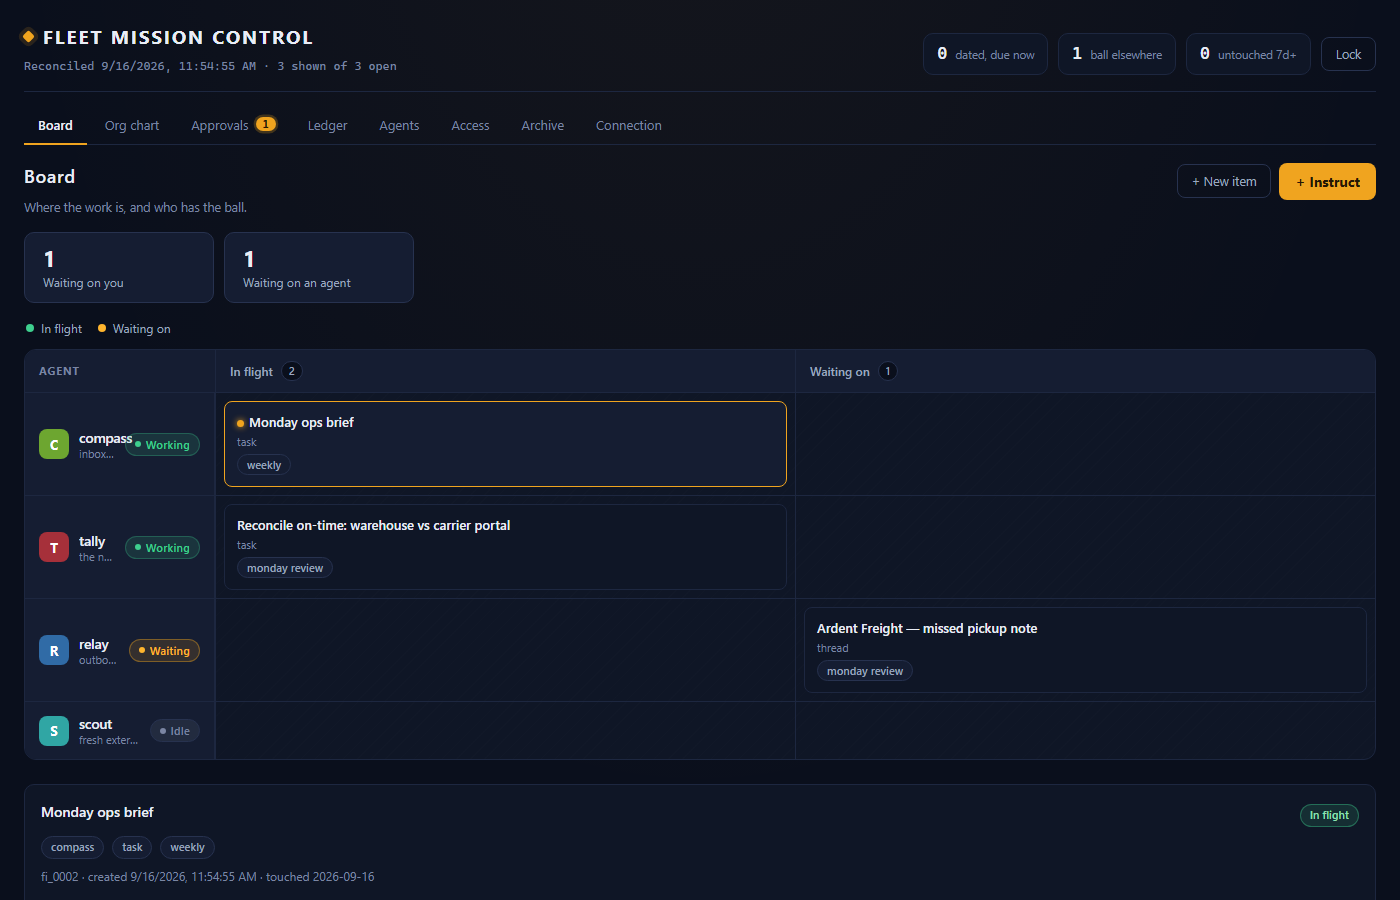
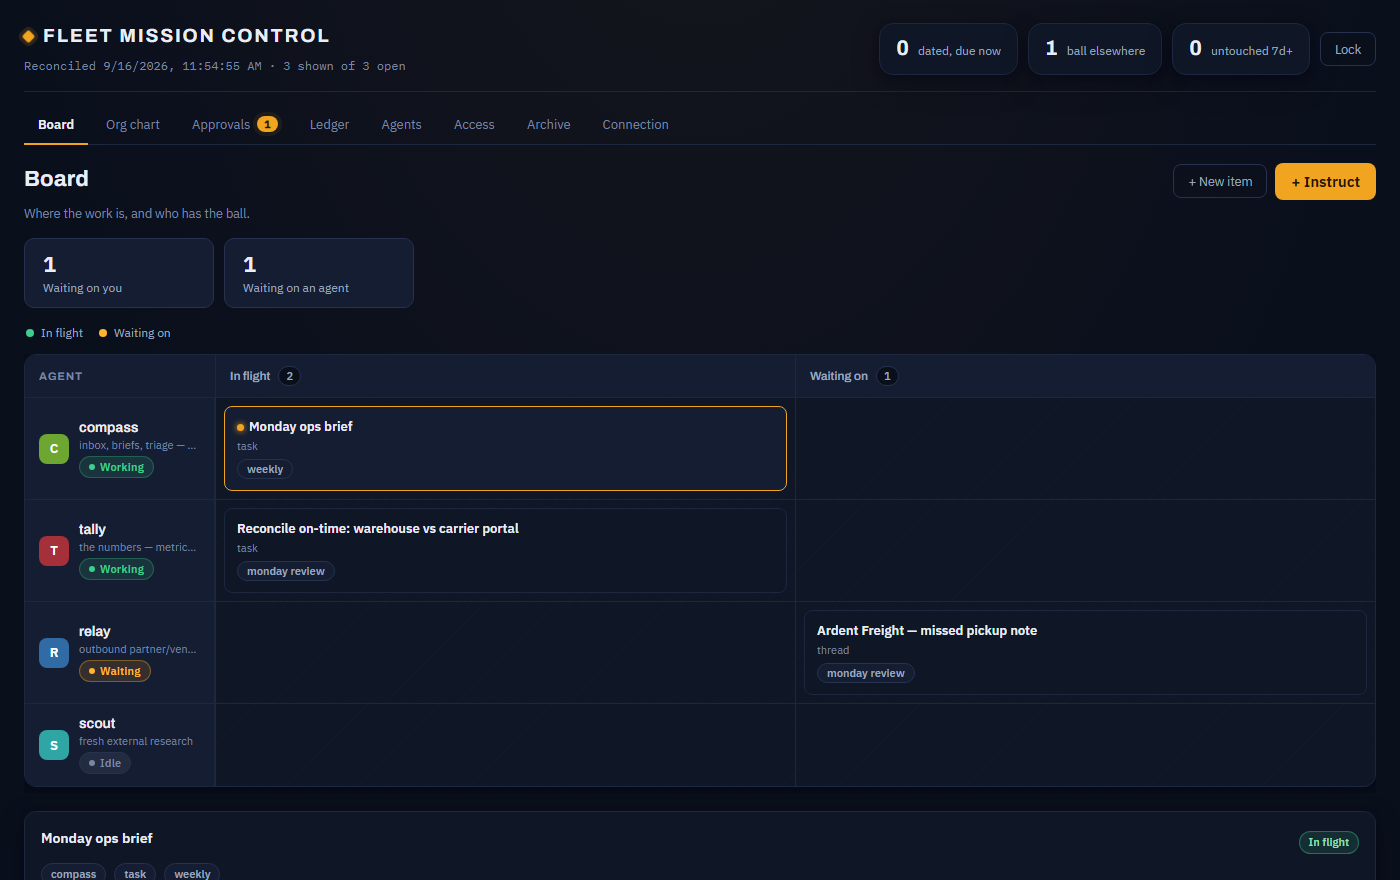
Match the Mission Control house style: Archivo + IBM Plex, raised panels
The board was structurally right but visually off from the real Tenarai Mission
Control. Pulled that site's design system in so the reference implementation
looks like the product it models.

- Typography is the signature: load Archivo (display) + IBM Plex Sans (body) +
  IBM Plex Mono (timestamps/ids) and point --display/--font/--mono at them. The
  colour tokens already matched; the system fallback fonts were the tell.
- Adopt the reference's --shadow-raise and 12px radius; raise the stat pills
  (big Archivo numbers), the swimboard, the cards and the org nodes.
- Base size 15px, antialiased; headings and lane/org/section titles in Archivo.
- Swimlane header cleaned up: agent name, role, then the state pill stacked, so
  the pill no longer collides with the name in a narrow column.
- Owner node's name picks up the accent.

Board, org chart and the agent pop-up all read as one polished surface now.
Screenshots refreshed. No behavioural change; acceptance unaffected.

diff --git a/platform/ui/fleet.html b/platform/ui/fleet.html
@@ -4,6 +4,9 @@
 <meta charset="utf-8" />
 <meta name="viewport" content="width=device-width, initial-scale=1" />
 <title>Fleet Mission Control</title>
+<link rel="preconnect" href="https://fonts.googleapis.com" />
+<link rel="preconnect" href="https://fonts.gstatic.com" crossorigin />
+<link href="https://fonts.googleapis.com/css2?family=Archivo:wght@600;700;800&family=IBM+Plex+Mono:wght@400;500&family=IBM+Plex+Sans:wght@400;500;600&display=swap" rel="stylesheet" />
 <style>
   /*
    * A deep blue-black ground, signal amber for anything that needs the owner's
@@ -33,10 +36,13 @@
     --hot-soft: rgba(255, 109, 109, 0.13);
     --warn: #e6b455;
     --warn-soft: rgba(230, 180, 85, 0.12);
-    --radius: 10px;
-    --font: -apple-system, BlinkMacSystemFont, "Segoe UI", Roboto, Helvetica, Arial, sans-serif;
-    --display: var(--font);
-    --mono: ui-monospace, "SF Mono", "Cascadia Code", Consolas, monospace;
+    --radius: 12px;
+    --shadow-raise: 0 2px 6px #02061059, 0 10px 28px #0206104d;
+    /* The Mission Control type system: Archivo for display, IBM Plex Sans for
+       body, IBM Plex Mono for timestamps and ids. Same as the reference. */
+    --font: "IBM Plex Sans", "Segoe UI", -apple-system, Roboto, Helvetica, Arial, sans-serif;
+    --display: "Archivo", var(--font);
+    --mono: "IBM Plex Mono", ui-monospace, "SF Mono", "Cascadia Code", Consolas, monospace;
   }
 
   *{ box-sizing: border-box; }
@@ -46,7 +52,8 @@
     background: var(--bg);
     color: var(--ink);
     font-family: var(--font);
-    font-size: 14px;
+    font-size: 15px;
+    -webkit-font-smoothing: antialiased;
     line-height: 1.5;
   }
   body{
@@ -168,11 +175,11 @@
   .asof{ margin: 6px 0 0; font-size: 12px; font-family: var(--mono); color: var(--ink-faint); }
   .top-stats{ display:flex; align-items:center; gap:10px; flex-wrap:wrap; }
   .stat{
-    background: var(--panel); border: 1px solid var(--line-soft); border-radius: var(--radius);
-    padding: 7px 13px; display:flex; align-items:baseline; gap:8px;
+    background: var(--panel); border: 1px solid var(--line-soft); border-radius: 14px;
+    padding: 9px 16px; display:flex; align-items:baseline; gap:9px; box-shadow: var(--shadow-raise);
   }
-  .stat b{ font-size: 17px; font-family: var(--mono); font-weight:600; font-variant-numeric: tabular-nums; }
-  .stat span{ font-size: 11.5px; color: var(--ink-faint); }
+  .stat b{ font-size: 21px; font-family: var(--display); font-weight:700; font-variant-numeric: tabular-nums; letter-spacing:.01em; }
+  .stat span{ font-size: 12px; color: var(--ink-dim); }
   .stat.hot{ border-color: rgba(255,109,109,.45); background: linear-gradient(180deg, var(--hot-soft), var(--panel)); }
   .stat.hot b{ color: var(--hot); }
   .stat.warn{ border-color: rgba(230,180,85,.4); background: linear-gradient(180deg, var(--warn-soft), var(--panel)); }
@@ -228,7 +235,7 @@
   .chip-neutral{ background: var(--panel-2); color: var(--ink-dim); border-color: var(--line); }
 
   /* ---------- cards / lists ---------- */
-  .card{ background: var(--panel); border: 1px solid var(--line-soft); border-radius: 10px; padding: 16px; margin-bottom: 14px; }
+  .card{ background: var(--panel); border: 1px solid var(--line-soft); border-radius: 12px; padding: 16px; margin-bottom: 14px; box-shadow: var(--shadow-raise); }
   .card h3{ font-size:14px; }
   .section-title{ font-size:12px; text-transform:uppercase; letter-spacing:.05em; color: var(--ink-faint); margin: 4px 0 8px; }
   .scroll-x{ overflow-x:auto; max-width:100%; }
@@ -237,7 +244,7 @@
   th{ color: var(--ink-faint); font-weight:600; font-size:11px; text-transform:uppercase; letter-spacing:.04em; }
   td.wrap{ white-space: normal; }
   .view-header{ display:flex; justify-content:space-between; align-items:flex-start; gap:12px; margin: 18px 0 16px; flex-wrap:wrap; }
-  .view-header h2{ font-size: 18px; font-family: var(--display); letter-spacing: .04em; }
+  .view-header h2{ font-size: 22px; font-family: var(--display); font-weight:700; letter-spacing: .01em; }
   .view-sub{ color: var(--ink-faint); font-size: 12.5px; margin-top:3px; }
 
   /* ---------- board ---------- */
@@ -582,7 +589,8 @@
 
   /* ---- the Jira swimlane board ---- */
   .swimboard-scroll{ overflow-x:auto; padding-bottom:6px; }
-  .swimboard{ min-width:640px; border:1px solid var(--line-soft); border-radius:12px; overflow:hidden; background:var(--panel); }
+  .swimboard{ min-width:640px; border:1px solid var(--line-soft); border-radius:12px; overflow:hidden; background:var(--panel); box-shadow:var(--shadow-raise); }
+  .swim-corner, .swim-colhead span:first-child{ font-family:var(--display); }
   .swim-row{ display:grid; align-items:stretch; border-top:1px solid var(--line-soft); }
   .swim-row:first-child{ border-top:0; }
   .swim-head{ position:sticky; top:0; background:var(--panel-2); z-index:2; }
@@ -598,9 +606,10 @@
   .swim-lane-static{ cursor:default; }
   .swim-avatar{ width:30px; height:30px; border-radius:8px; flex:none; display:flex; align-items:center;
     justify-content:center; font-weight:700; font-size:13px; color:#fff; text-transform:uppercase; }
-  .swim-lane-body{ min-width:0; flex:1; }
-  .swim-lane-name{ font-weight:600; font-size:13.5px; }
-  .swim-lane-role{ font-size:11px; color:var(--ink-faint); white-space:nowrap; overflow:hidden; text-overflow:ellipsis; }
+  .swim-lane-body{ min-width:0; flex:1; display:flex; flex-direction:column; align-items:flex-start; gap:3px; }
+  .swim-lane-name{ font-weight:600; font-size:14px; font-family:var(--display); }
+  .swim-lane-role{ font-size:11px; color:var(--ink-faint); white-space:nowrap; overflow:hidden; text-overflow:ellipsis; max-width:100%; }
+  .swim-lane .state-pill{ margin-top:1px; }
   .swim-cell{ padding:8px; border-left:1px solid var(--line-soft); display:flex; flex-direction:column; gap:8px;
     background:repeating-linear-gradient(-45deg, transparent, transparent 9px, rgba(255,255,255,.008) 9px, rgba(255,255,255,.008) 10px); }
 
@@ -616,7 +625,7 @@
   .orgc-child{ position:relative; }
   .orgc-child::before{ content:''; position:absolute; top:-26px; left:50%; width:2px; height:26px; background:var(--line); }
   .orgc-node{ display:flex; align-items:center; gap:11px; text-align:left; min-width:210px; max-width:280px;
-    padding:12px 14px; border-radius:12px; border:1px solid var(--line); background:var(--panel-2); color:var(--ink); }
+    padding:12px 14px; border-radius:12px; border:1px solid var(--line); background:var(--panel-2); color:var(--ink); box-shadow:var(--shadow-raise); }
   button.orgc-node{ cursor:pointer; transition:border-color .12s, transform .12s, background .12s; }
   button.orgc-node:hover{ border-color:var(--accent-dim); background:var(--panel-3); transform:translateY(-1px); }
   button.orgc-node:disabled{ cursor:default; }
@@ -625,8 +634,9 @@
   .orgc-avatar{ width:34px; height:34px; border-radius:9px; flex:none; display:flex; align-items:center;
     justify-content:center; font-weight:700; color:#fff; text-transform:uppercase; }
   .orgc-owner .orgc-avatar{ background:var(--accent); color:var(--accent-ink); }
+  .orgc-owner .orgc-name{ color:var(--accent-bright); }
   .orgc-body{ flex:1; min-width:0; }
-  .orgc-name{ font-weight:700; font-size:14px; }
+  .orgc-name{ font-weight:700; font-size:14.5px; font-family:var(--display); }
   .orgc-sub{ font-size:11.5px; color:var(--ink-faint); white-space:nowrap; overflow:hidden; text-overflow:ellipsis; }
 
   /* ---- the agent pop-up ---- */
@@ -639,7 +649,7 @@
   .am-avatar{ width:44px; height:44px; border-radius:11px; flex:none; display:flex; align-items:center;
     justify-content:center; font-weight:700; font-size:18px; color:#fff; text-transform:uppercase; }
   .am-id{ flex:1; min-width:0; }
-  .am-name{ font-weight:700; font-size:16px; display:flex; align-items:center; gap:8px; }
+  .am-name{ font-weight:700; font-size:17px; font-family:var(--display); display:flex; align-items:center; gap:8px; }
   .am-orch{ font-size:10px; font-weight:700; text-transform:uppercase; letter-spacing:.05em; color:var(--accent-bright);
     background:var(--accent-soft); border:1px solid var(--accent-dim); padding:2px 6px; border-radius:5px; }
   .am-role{ font-size:12.5px; color:var(--ink-dim); margin-top:2px; }
@@ -1696,8 +1706,8 @@
           el('div', { class: 'swim-lane-body' }, [
             el('div', { class: 'swim-lane-name' }, [laneDisplayName(lane)]),
             el('div', { class: 'swim-lane-role' }, [isAgent ? (agentRole(lane) || 'agent') : 'you']),
+            isAgent ? el('span', { class: 'state-pill ' + st.cls }, [st.label]) : null,
           ]),
-          isAgent ? el('span', { class: 'state-pill ' + st.cls }, [st.label]) : null,
         ]);
         if (isAgent) laneHead.addEventListener('click', () => openAgentModal(lane));
         row.appendChild(laneHead);
